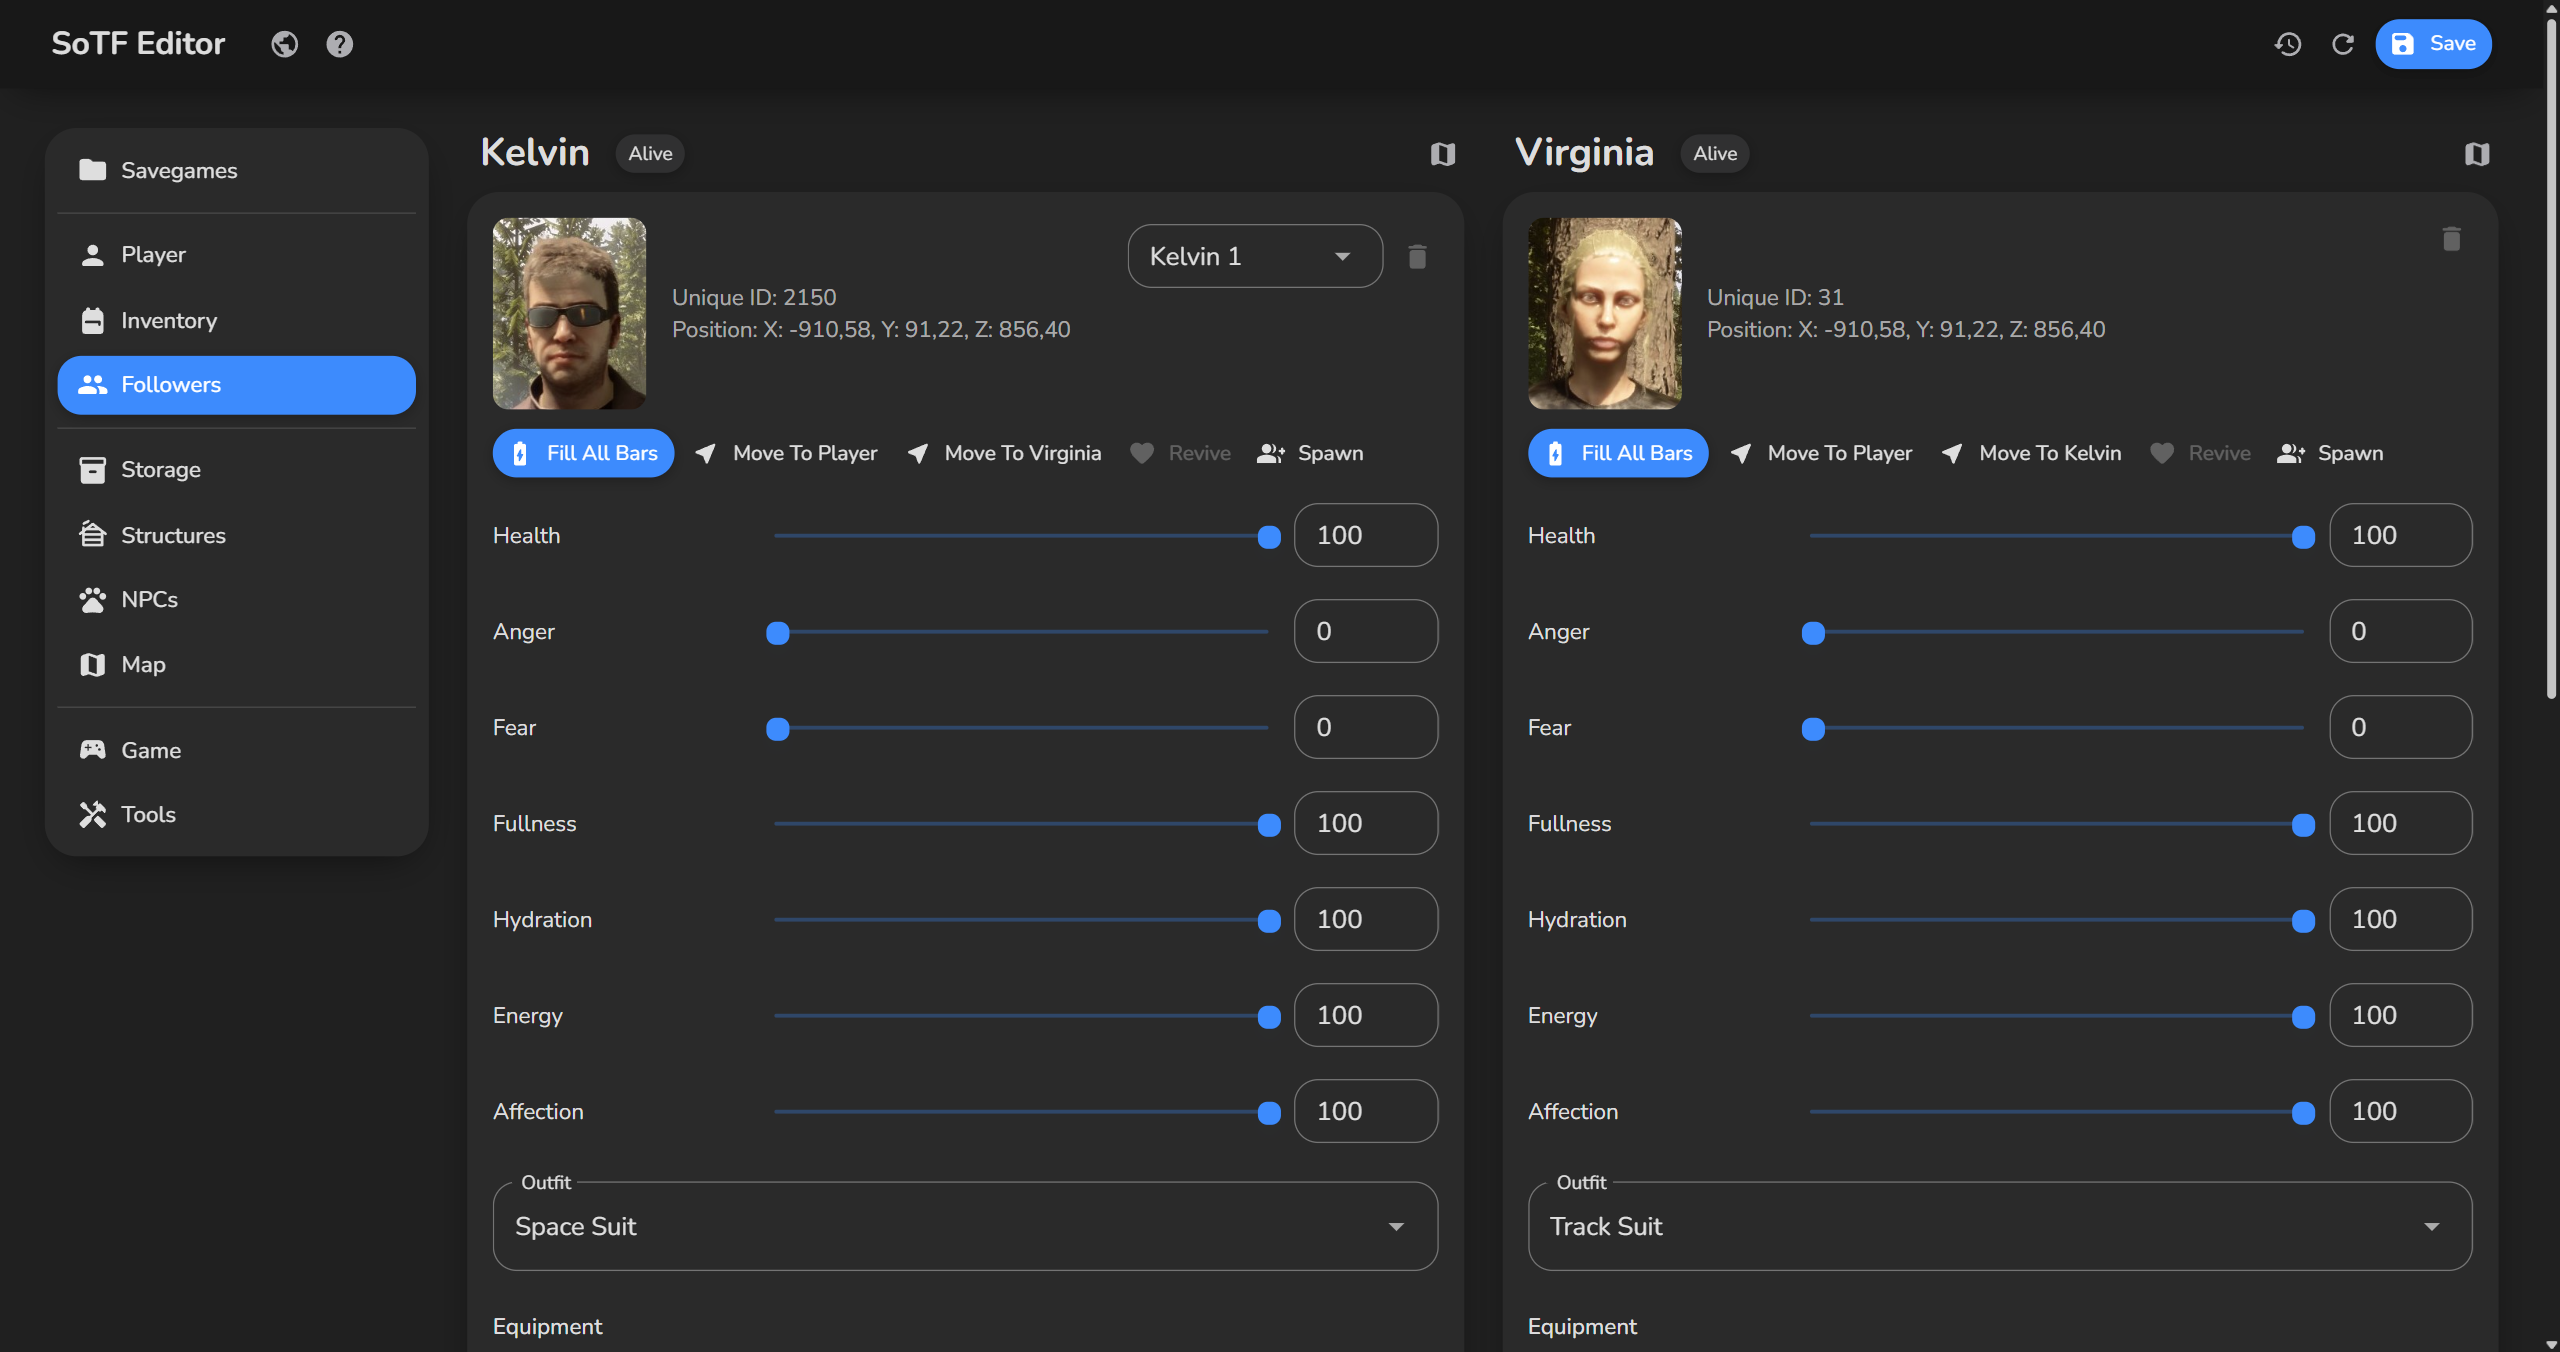
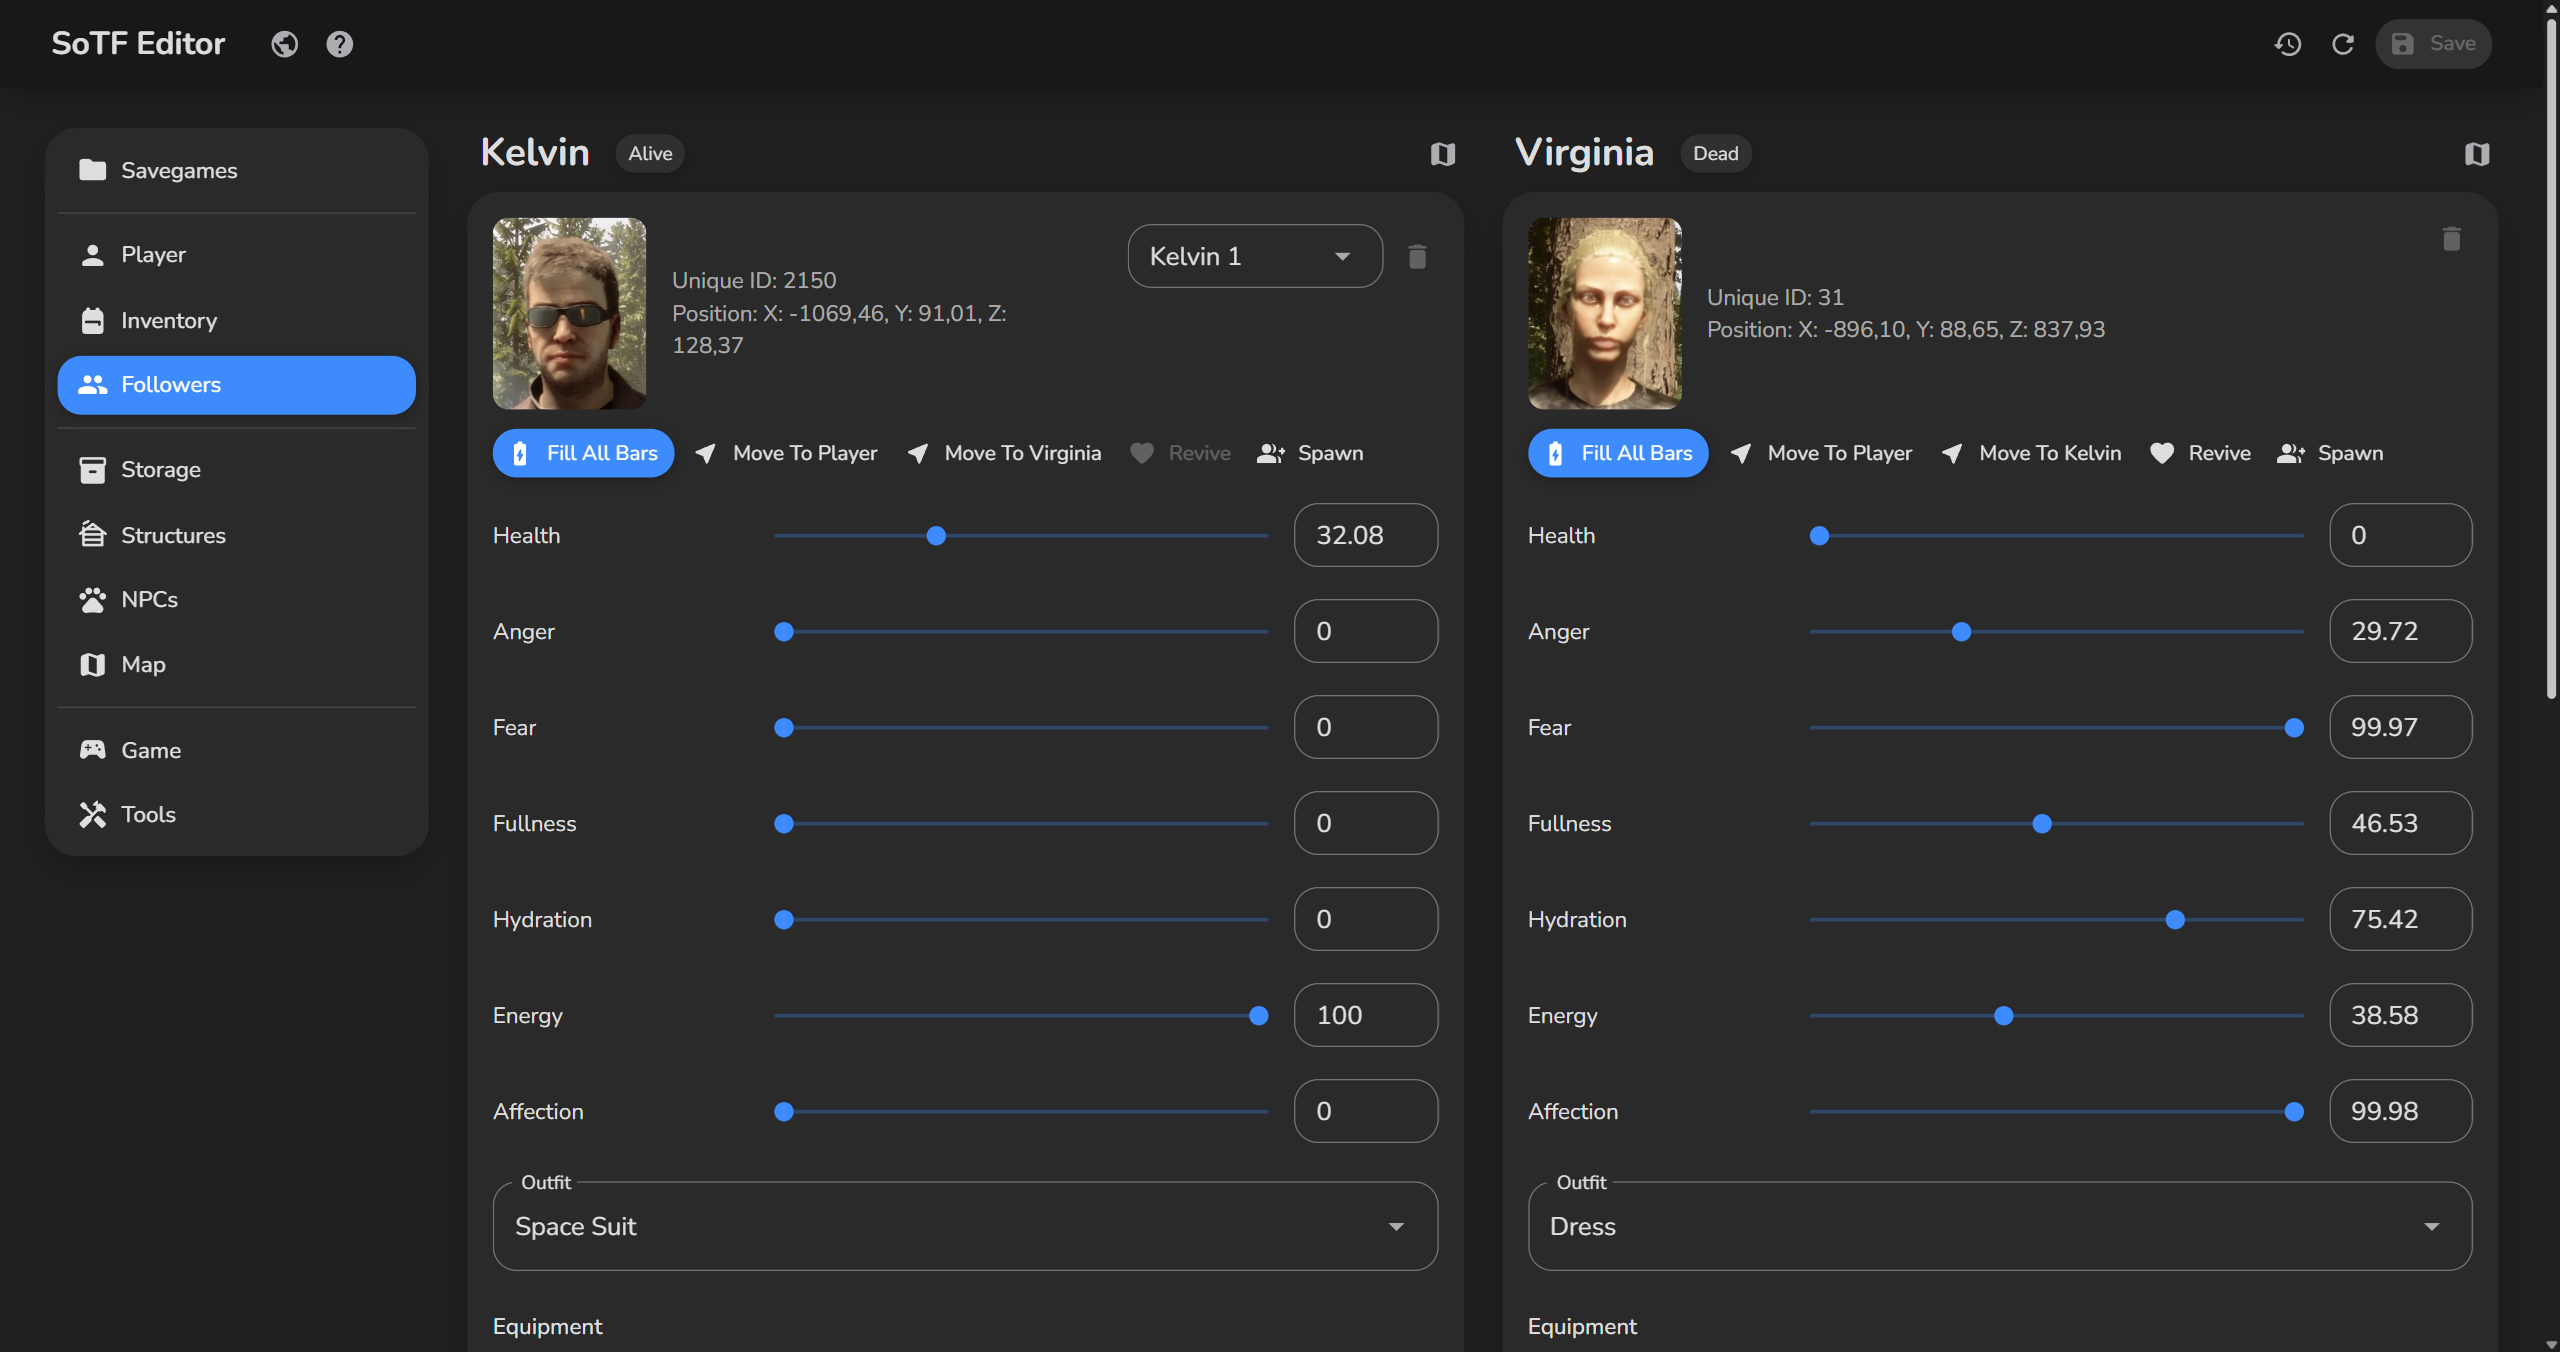
Update Screenshots And README

diff --git a/README.md b/README.md
@@ -17,10 +17,10 @@
 - Kelvin and Virginia, spawned copies too: stats, outfit, items, revive, spawn more or remove the extra ones
 - Game setup, game state, season and weather, NPCs and structures, with info buttons that explain each setting
 - Game presets such as Hard that you can still tweak setting by setting
-- A small yellow dot on every value you changed and on its page in the menu, a list of every change before you save, and an undo button on a page in the menu to revert just that page
-- A map to teleport the player and followers, spawn actors or move ziplines, with a useful default selection you can reset to
+- A small yellow dot on every value you changed and on its page in the menu, a list of every change before you save, a Save button that stays greyed out until there is something to save, and an undo button on a page in the menu to revert just that page
+- A map to teleport the player and followers, spawn actors or move ziplines, with a useful default selection you can reset to and a button that hides the menus for a bigger map
 - Savegame cards show the day, mode and crash site, and joined games also your strength and items
-- Tools on their own page, such as regrow trees, reset fires, traps and containers, cannibal anger from calm to furious, and item plating
+- Tools on their own page, such as regrow trees, reset fires, traps and containers, cannibal anger set for every cannibal from calm to furious, and item plating
 - Updates itself in the background from inside the app, shows what changed and checks the download against GitHub's checksum
 - Every list, card and map point works with the keyboard too
 - Long lists such as the inventory, structures and NPCs only draw the rows on screen, so they open and filter fast even on big saves
